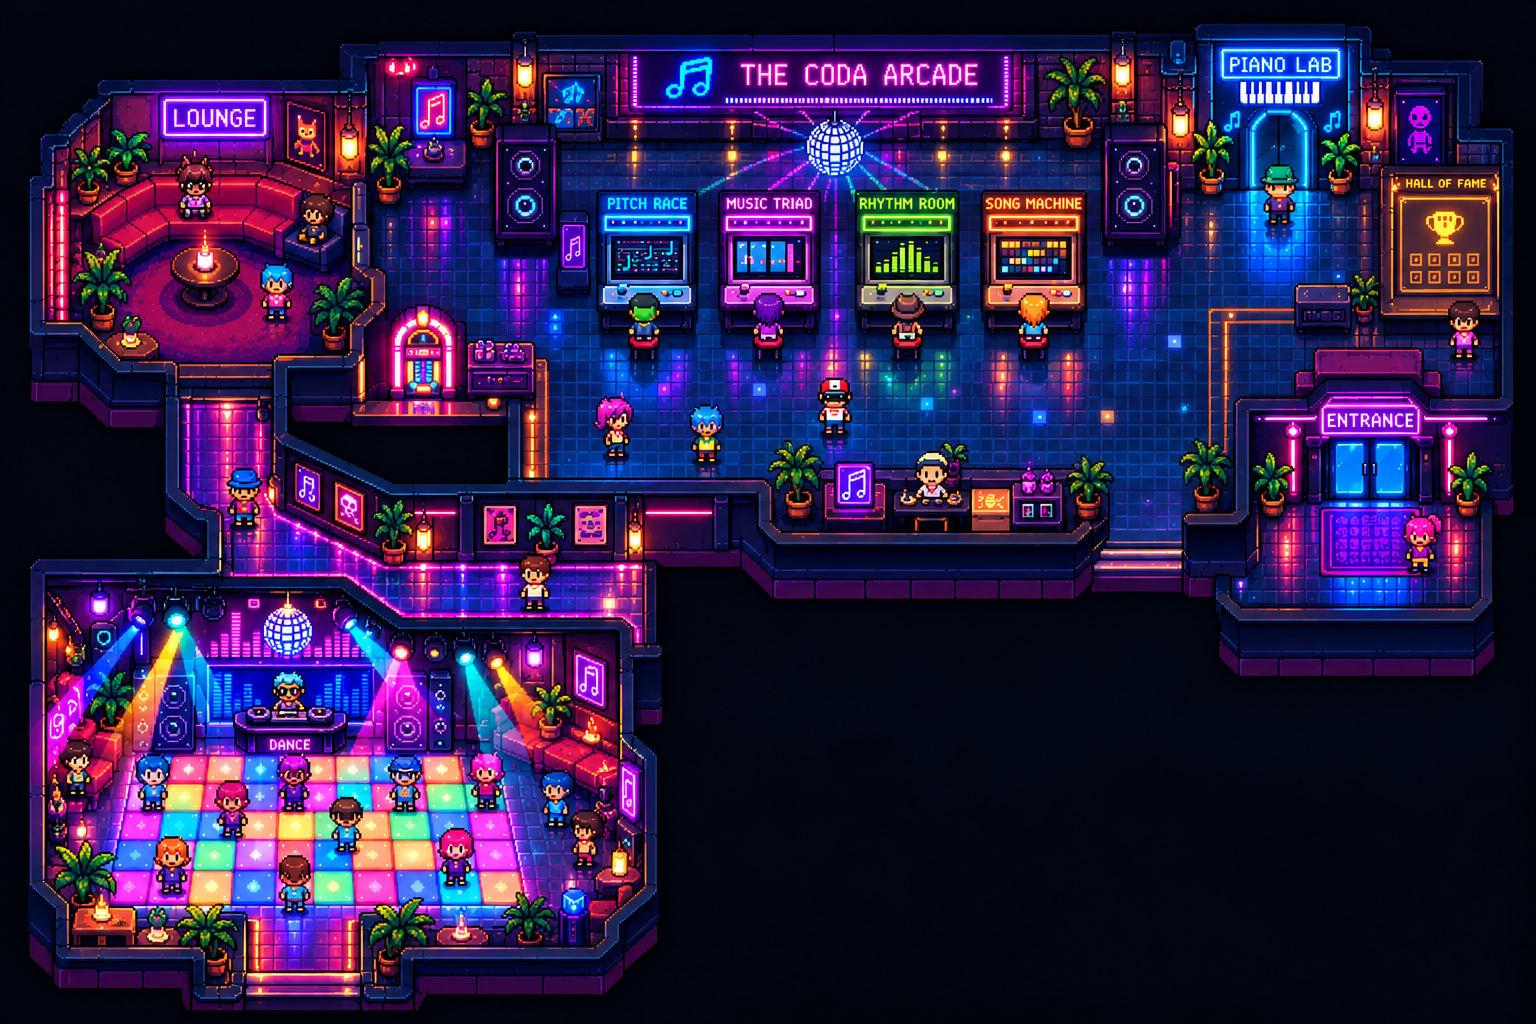
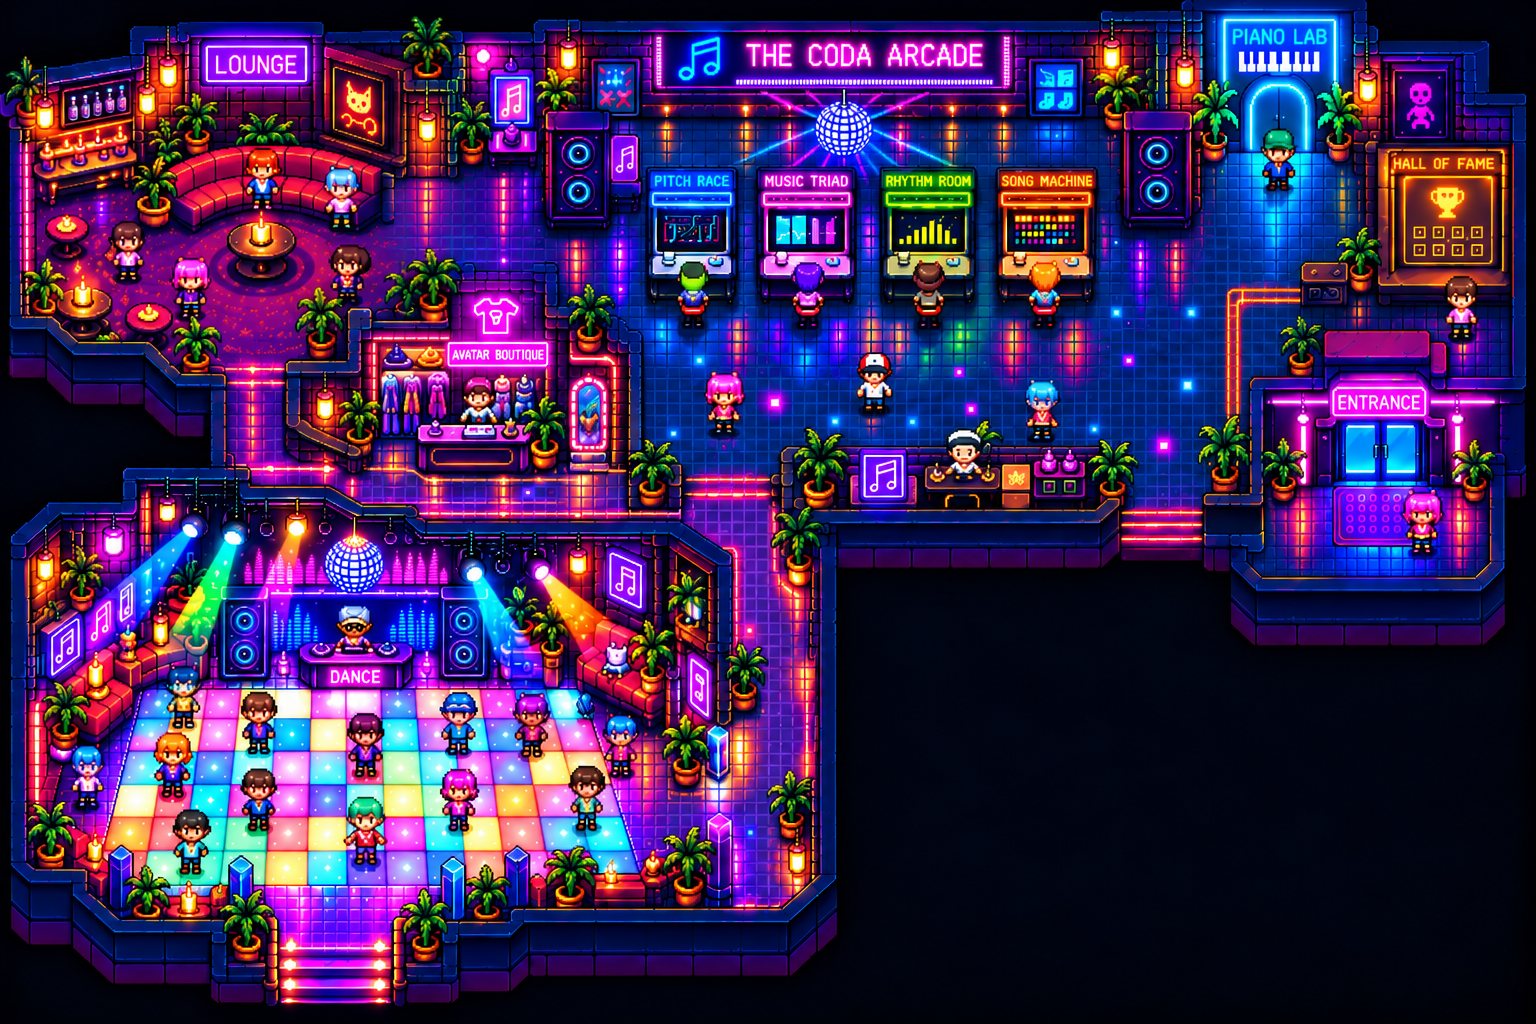
Add files via upload

diff --git a/world-preview.html b/world-preview.html
@@ -3,22 +3,40 @@
 #gameoverlay{position:fixed;inset:0;z-index:100;background:#121327;display:flex;flex-direction:column}#gameoverlay[hidden]{display:none}.gamebar{display:flex;align-items:center;justify-content:space-between;gap:12px;padding:12px 16px;background:#231a3c;border-bottom:2px solid #b583dc}.gamebar strong{color:#f0d7ff}#gameiframe{border:0;width:100%;flex:1;min-height:0;background:#111628}body.game-open{overflow:hidden}@media(max-width:650px){.gamebar{gap:6px}.gamebar strong{font-size:12px}.gamebar a{font-size:11px}}
 #panel{position:fixed;z-index:90;top:50%;left:50%;transform:translate(-50%,-50%);width:min(570px,94vw);max-height:84dvh;overflow:auto;padding:20px;background:#231c3b;border:2px solid #c69be9;box-shadow:0 0 0 100vmax #05030ab8,0 14px 55px #000c;border-radius:12px}#panel[hidden]{display:none}.panelHead{display:flex;justify-content:space-between;align-items:center;margin-bottom:14px}.panelRow{display:flex;align-items:center;justify-content:space-between;gap:12px;margin:10px 0;padding:10px;border:1px solid #66517f;border-radius:7px}.panelRow small{display:block;opacity:.75}.formRow{display:grid;gap:5px;margin:10px 0}.formRow select,.formRow input{background:#17142c;color:#fff;border:1px solid #a08dbd;padding:9px;border-radius:5px;width:100%}.panelActions{display:flex;gap:8px;flex-wrap:wrap;margin-top:14px}.muted{color:#c1b4d7;font-size:13px}.panelMsg{min-height:22px;color:#9fe9dc}body:has(#panel:not([hidden])) #view{filter:brightness(.65)}
 #pianoroom{position:fixed;inset:0;z-index:95;background:radial-gradient(ellipse at 50% 20%,#344962,#11172b 75%);display:flex;flex-direction:column;align-items:center;justify-content:center;gap:18px;color:#f5edff}#pianoroom[hidden]{display:none}#pianoroom .stage{border:9px solid #69567e;background:repeating-linear-gradient(90deg,#243349 0 32px,#28374d 32px 64px);width:min(650px,88vw);padding:30px;text-align:center;box-shadow:0 0 70px #b08ed255}#pianoroom .keys{display:flex;justify-content:center;margin:20px auto 0}#pianoroom .keys i{height:85px;width:27px;background:#eee9f3;border:2px solid #35324b;box-shadow:inset 0 -8px #aaa8bc}#pianoroom .keys i:nth-child(3n+2){background:#22223b;height:55px;width:18px;margin:0 -8px;z-index:1}#pianoroom h2{color:#9feaf2;letter-spacing:3px}#pianoroom button{font-size:16px}
-</style><header><b>♫ CODA ARCADE · CONNECTED WORLD / PHASE 5.8 · NEON NIGHTCLUB WORLD</b><span><a href="index.html">← Current arcade</a> &nbsp; <button id="accountBtn">◉ Guest</button> <button id="jukeboxBtn">♫ Jukebox</button> <button id="fs">⛶ Fullscreen</button></span></header><canvas id="view" width="1536" height="1024" tabindex="0"></canvas><footer><span>WASD / arrows · Walk &nbsp; E · Interact &nbsp; Q · Emote · Click/tap to walk</span><span id="status">Phase 5.8 · Connected dance corridor · WASD / tap to walk</span></footer><div id="dialog" role="dialog" aria-label="Arcade conversation"><strong id="who"></strong><p id="words"></p><button id="close">Close · E</button></div><section id="gameoverlay" hidden aria-label="Arcade game"><div class="gamebar"><button id="returnworld" type="button">← Return to world</button><strong id="activegame">Arcade game</strong><a id="externalgame" href="#" target="_blank" rel="noopener noreferrer">Open in new tab ↗</a></div><iframe id="gameiframe" title="Arcade game" allow="autoplay; fullscreen" allowfullscreen referrerpolicy="strict-origin-when-cross-origin"></iframe></section><div id="panel" hidden><div class="panelHead"><strong id="panelTitle">Arcade</strong><button id="panelClose">✕ Close</button></div><div id="panelBody"></div></div><script src="account-config.js?v=phase42"></script><div id="pianoroom" hidden><div class="stage"><h2>♫ PIANO LAB ♫</h2><p>A quieter music space away from the arcade floor.</p><div class="keys"><i></i><i></i><i></i><i></i><i></i><i></i><i></i><i></i><i></i><i></i><i></i><i></i><i></i><i></i></div><p style="opacity:.7">Dedicated room preview — instruments and activities coming later.</p></div><button id="closepiano">← Return to Arcade</button></div><script>
-(()=>{'use strict';const c=document.querySelector('#view'),g=c.getContext('2d'),status=document.querySelector('#status'),dialog=document.querySelector('#dialog');let avatar={};try{avatar=JSON.parse(localStorage.getItem('musicArcadeV1')||'{}')}catch{}const W=1536,H=1024,ART_SCALE=1,keys=new Set();let player={x:1340,y:505},cam={x:0,y:0},dest=null,emote=0,near=null,last=0,clock=0;const rooms=[{id:'lounge',name:'LOUNGE',x:60,y:100,w:330,h:270},{id:'dance',name:'DANCE',x:45,y:620,w:580,h:325},{id:'arcade',name:'ARCADE',x:490,y:110,w:735,h:435}];const bridges=[];const doors=[];const games=[{name:'Pitch Race',x:645,y:280,url:'https://cwoodmusic.github.io/Pitch-Race/'},{name:'Music Triad',x:765,y:280,url:'https://cwoodmusic.github.io/musictriad/'},{name:'Rhythm Room',x:910,y:280,url:'https://cwoodmusic.github.io/rhythmroom/'},{name:'Song Machine',x:1040,y:280,url:'song-machine/index.html'}];const lines=['Nice place to hang out!','I could stay here all day.','Did you see that?','This is my favorite spot.','Hey! Good to see you.']; // Replace these placeholder lines with your own dialogue later.
-const looks=[['#e5b48d','#ed8cbe','#171424','spiky'],['#85543b','#8ddde6','#e3c27d','long'],['#f4cba6','#c9a3f1','#402c4b','buns'],['#a56b48','#f4ae77','#1c172d','short'],['#f3c3a1','#b2f37b','#6c3159','bob'],['#704633','#a8b5fc','#eee6df','curly'],['#f0b79d','#ffd48c','#171424','ponytail']];const npc=[{name:'Ziggy',x:1340,y:505,mode:'enter',goal:0,wait:0,look:0},{name:'Nova',x:1340,y:505,mode:'enter',goal:1,wait:1.7,look:1},{name:'Byte',x:1340,y:505,mode:'enter',goal:2,wait:3.4,look:2},{name:'Mochi',x:1340,y:505,mode:'enter',goal:3,wait:5,look:3},{name:'Riff',x:1340,y:505,mode:'enter',goal:0,wait:7,look:4},{name:'Fizz',x:1340,y:505,mode:'enter',goal:1,wait:9,look:5},{name:'Dot',x:1340,y:505,mode:'enter',goal:2,wait:11,look:6}];const sofas=[{x:110,y:175,w:110,h:45},{x:230,y:175,w:110,h:45}];const seats=[{x:165,y:235},{x:275,y:235},{x:155,y:310},{x:290,y:310}];const spot=(p)=>p.mode==='cabinet'?{x:games[p.goal%4].x,y:355}:p.mode==='lounge'?seats[p.goal%4]:p.mode==='dance'?{x:160+(p.goal%4)*110,y:780+(p.goal%2)*65}:p.mode==='leave'?{x:1340,y:505}:{x:1340,y:505};const r=(x,y,w,h,color)=>{g.fillStyle=color;g.fillRect(Math.round(x),Math.round(y),w,h)};const t=(s,x,y,size=18,color='#e7e2ff')=>{g.fillStyle=color;g.font=`bold ${size}px monospace`;g.textAlign='center';g.fillText(s,x,y)};function sprite(x,y,look,walk=false,dance=false,scale=1){const [skin,shirt,hair,style]=look;g.save();g.translate(Math.round(x),Math.round(y));g.scale(scale,scale);const bob=dance?Math.sin(clock*8)*5:walk?Math.sin(clock*12)*2:0;r(-10,-38+bob,20,17,hair);if(style==='buns'){r(-15,-39+bob,6,7,hair);r(9,-39+bob,6,7,hair)}if(style==='long')r(-13,-30+bob,26,20,hair);r(-9,-32+bob,18,16,skin);r(-12,-16+bob,24,20,shirt);r(-16,-12+bob,4,13,skin);r(12,-12+bob,4,13,skin);r(-9,4+bob,7,11,'#695d99');r(2,4+bob,7,11,'#695d99');r(-10,14+bob,9,4,'#f8d56b');r(1,14+bob,9,4,'#f8d56b');r(-6,-24+bob,3,3,'#222033');r(4,-24+bob,3,3,'#222033');if(dance){const beat=Math.floor(clock*4+look[0].length)%4,up=beat%2===0;r(-18,-(up?29:13)+bob,5,up?16:11,skin);r(13,-(up?13:29)+bob,5,up?11:16,skin);r(-10+(up?-5:3),14+bob,9,5,'#f8d56b');r(1+(up?4:-4),14+bob,9,5,'#f8d56b')}g.restore()};function inside(x,y){
- // Walkable room masks, including a continuous accessible L-shaped dance corridor.
- const rects=[[510,140,1200,515],[1210,135,1450,565],[100,110,385,365],[360,175,550,435],
- [120,385,285,615],[175,520,635,640],[45,615,625,965],[1140,360,1470,610]];
+</style><header><b>♫ CODA ARCADE · CONNECTED WORLD / PHASE 5.9 · CONNECTED NEON ARCADE</b><span><a href="index.html">← Current arcade</a> &nbsp; <button id="accountBtn">◉ Guest</button> <button id="jukeboxBtn">♫ Jukebox</button> <button id="fs">⛶ Fullscreen</button></span></header><canvas id="view" width="1536" height="1024" tabindex="0"></canvas><footer><span>WASD / arrows · Walk &nbsp; E · Interact &nbsp; Q · Emote · Click/tap to walk</span><span id="status">Phase 5.9 · Connected rooms · WASD / tap to walk</span></footer><div id="dialog" role="dialog" aria-label="Arcade conversation"><strong id="who"></strong><p id="words"></p><button id="close">Close · E</button></div><section id="gameoverlay" hidden aria-label="Arcade game"><div class="gamebar"><button id="returnworld" type="button">← Return to world</button><strong id="activegame">Arcade game</strong><a id="externalgame" href="#" target="_blank" rel="noopener noreferrer">Open in new tab ↗</a></div><iframe id="gameiframe" title="Arcade game" allow="autoplay; fullscreen" allowfullscreen referrerpolicy="strict-origin-when-cross-origin"></iframe></section><div id="panel" hidden><div class="panelHead"><strong id="panelTitle">Arcade</strong><button id="panelClose">✕ Close</button></div><div id="panelBody"></div></div><script src="account-config.js?v=phase42"></script><div id="pianoroom" hidden><div class="stage"><h2>♫ PIANO LAB ♫</h2><p>A quieter music space away from the arcade floor.</p><div class="keys"><i></i><i></i><i></i><i></i><i></i><i></i><i></i><i></i><i></i><i></i><i></i><i></i><i></i><i></i></div><p style="opacity:.7">Dedicated room preview — instruments and activities coming later.</p></div><button id="closepiano">← Return to Arcade</button></div><script>
+(()=>{'use strict';const c=document.querySelector('#view'),g=c.getContext('2d'),status=document.querySelector('#status'),dialog=document.querySelector('#dialog');let avatar={};try{avatar=JSON.parse(localStorage.getItem('musicArcadeV1')||'{}')}catch{}const W=1536,H=1024,ART_SCALE=1,keys=new Set();let player={x:1390,y:480},cam={x:0,y:0},dest=null,emote=0,near=null,last=0,clock=0;const rooms=[{id:'lounge',name:'LOUNGE',x:60,y:100,w:330,h:270},{id:'dance',name:'DANCE',x:45,y:620,w:580,h:325},{id:'arcade',name:'ARCADE',x:490,y:110,w:735,h:435}];const bridges=[];const doors=[];const games=[{name:'Pitch Race',x:693,y:246,url:'https://cwoodmusic.github.io/Pitch-Race/'},{name:'Music Triad',x:808,y:246,url:'https://cwoodmusic.github.io/musictriad/'},{name:'Rhythm Room',x:930,y:246,url:'https://cwoodmusic.github.io/rhythmroom/'},{name:'Song Machine',x:1050,y:246,url:'song-machine/index.html'}];const lines=['Nice place to hang out!','I could stay here all day.','Did you see that?','This is my favorite spot.','Hey! Good to see you.']; // Replace these placeholder lines with your own dialogue later.
+const looks=[['#e5b48d','#ed8cbe','#171424','spiky'],['#85543b','#8ddde6','#e3c27d','long'],['#f4cba6','#c9a3f1','#402c4b','buns'],['#a56b48','#f4ae77','#1c172d','short'],['#f3c3a1','#b2f37b','#6c3159','bob'],['#704633','#a8b5fc','#eee6df','curly'],['#f0b79d','#ffd48c','#171424','ponytail']];const npc=[{name:'Ziggy',x:1390,y:480,mode:'enter',goal:0,wait:0,look:0},{name:'Nova',x:1390,y:480,mode:'enter',goal:1,wait:1.7,look:1},{name:'Byte',x:1390,y:480,mode:'enter',goal:2,wait:3.4,look:2},{name:'Mochi',x:1390,y:480,mode:'enter',goal:3,wait:5,look:3},{name:'Riff',x:1390,y:480,mode:'enter',goal:0,wait:7,look:4},{name:'Fizz',x:1390,y:480,mode:'enter',goal:1,wait:9,look:5},{name:'Dot',x:1390,y:480,mode:'enter',goal:2,wait:11,look:6}];const sofas=[{x:105,y:135,w:110,h:45},{x:240,y:135,w:110,h:45}];const seats=[{x:170,y:245},{x:300,y:245},{x:160,y:320},{x:340,y:320}];const spot=(p)=>p.mode==='cabinet'?{x:games[p.goal%4].x,y:355}:p.mode==='lounge'?seats[p.goal%4]:p.mode==='dance'?{x:175+(p.goal%4)*120,y:750+(p.goal%2)*70}:p.mode==='leave'?{x:1390,y:480}:{x:1390,y:480};const r=(x,y,w,h,color)=>{g.fillStyle=color;g.fillRect(Math.round(x),Math.round(y),w,h)};const t=(s,x,y,size=18,color='#e7e2ff')=>{g.fillStyle=color;g.font=`bold ${size}px monospace`;g.textAlign='center';g.fillText(s,x,y)};function sprite(x,y,look,walk=false,dance=false,scale=1){const [skin,shirt,hair,style]=look;g.save();g.translate(Math.round(x),Math.round(y));g.scale(scale,scale);const bob=dance?Math.sin(clock*8)*5:walk?Math.sin(clock*12)*2:0;r(-10,-38+bob,20,17,hair);if(style==='buns'){r(-15,-39+bob,6,7,hair);r(9,-39+bob,6,7,hair)}if(style==='long')r(-13,-30+bob,26,20,hair);r(-9,-32+bob,18,16,skin);r(-12,-16+bob,24,20,shirt);r(-16,-12+bob,4,13,skin);r(12,-12+bob,4,13,skin);r(-9,4+bob,7,11,'#695d99');r(2,4+bob,7,11,'#695d99');r(-10,14+bob,9,4,'#f8d56b');r(1,14+bob,9,4,'#f8d56b');r(-6,-24+bob,3,3,'#222033');r(4,-24+bob,3,3,'#222033');if(dance){const beat=Math.floor(clock*4+look[0].length)%4,up=beat%2===0;r(-18,-(up?29:13)+bob,5,up?16:11,skin);r(13,-(up?13:29)+bob,5,up?11:16,skin);r(-10+(up?-5:3),14+bob,9,5,'#f8d56b');r(1+(up?4:-4),14+bob,9,5,'#f8d56b')}g.restore()};function inside(x,y){
+ const rects=[
+ [580,120,1215,475], // arcade
+ [1170,120,1490,565], // entrance, piano and hall of fame
+ [405,155,650,330], // open upper lounge doorway
+ [30,120,450,370], // lounge
+ [235,350,680,505], // boutique walkway
+ [620,430,825,575], // arcade to corridor
+ [700,480,825,920], // east corridor
+ [635,690,800,845], // wide unobstructed dance-room side entrance
+ [40,515,710,935] // dance club
+ ];
  return rects.some(([x1,y1,x2,y2])=>x>=x1&&x<=x2&&y>=y1&&y<=y2);
-}// NPCs navigate through room entrances using waypoints, never teleport through walls.
+}
+// NPCs navigate through room entrances using waypoints, never teleport through walls.
 function makeRoute(p,aim){
- // Dance visitors travel through the actual L-shaped corridor, never across a wall.
- if(p.mode==='dance')return [{x:575,y:440},{x:465,y:440},{x:465,y:555},{x:245,y:555},{x:245,y:665},aim];
- if(p.mode==='lounge')return [{x:550,y:380},{x:450,y:360},aim];
- if(p.mode==='cabinet'&&p.x<500)return [{x:245,y:555},{x:465,y:555},{x:465,y:440},{x:575,y:440},aim];
- if(p.mode==='leave'&&p.x<650)return [{x:245,y:665},{x:245,y:555},{x:465,y:555},{x:465,y:440},{x:575,y:440},{x:1180,y:440},aim];
+ const start={x:p.x,y:p.y},dance=start.x<710&&start.y>515,lounge=start.x<450&&start.y<390;
+ if(p.mode==='dance'){
+   if(dance)return [aim];
+   if(lounge)return [{x:470,y:255},{x:610,y:340},{x:705,y:460},{x:755,y:530},{x:755,y:740},{x:660,y:740},aim];
+   return [{x:1080,y:395},{x:800,y:395},{x:755,y:530},{x:755,y:740},{x:660,y:740},aim];
+ }
+ if(p.mode==='lounge'){
+   if(lounge)return [aim];
+   if(dance)return [{x:660,y:740},{x:755,y:740},{x:755,y:530},{x:705,y:460},{x:610,y:340},{x:470,y:255},aim];
+   return [{x:800,y:395},{x:610,y:340},{x:470,y:255},aim];
+ }
+ if(dance)return [{x:660,y:740},{x:755,y:740},{x:755,y:530},{x:800,y:395},aim];
+ if(lounge)return [{x:470,y:255},{x:610,y:340},{x:800,y:395},aim];
  return [aim];
-}function go(p,dt){const aim=spot(p);const targetKey=p.mode+':'+p.goal;
+}
+function go(p,dt){const aim=spot(p);const targetKey=p.mode+':'+p.goal;
  if(p.routeKey!==targetKey){p.routeKey=targetKey;p.route=makeRoute(p,aim)}
  if(!p.route||!p.route.length)return false;
  let target=p.route[0],dx=target.x-p.x,dy=target.y-p.y,dist=Math.hypot(dx,dy);
@@ -29,7 +47,7 @@ function makeRoute(p,aim){
  p.route=makeRoute(p,aim);return true;
 }
 function update(dt){clock+=dt;if(dialog.style.display==='block'||!document.querySelector('#panel').hidden||!document.querySelector('#pianoroom').hidden)return;let dx=(keys.has('d')||keys.has('arrowright')?1:0)-(keys.has('a')||keys.has('arrowleft')?1:0),dy=(keys.has('s')||keys.has('arrowdown')?1:0)-(keys.has('w')||keys.has('arrowup')?1:0);if(dx||dy)dest=null;if(dest){dx=dest.x-player.x;dy=dest.y-player.y;if(Math.hypot(dx,dy)<9){dest=null;dx=dy=0}}const len=Math.hypot(dx,dy);if(len){const nx=player.x+dx/len*230*dt,ny=player.y+dy/len*230*dt;if(inside(nx,player.y))player.x=nx;if(inside(player.x,ny))player.y=ny}for(const p of npc){
-  if(p.hidden){p.wait-=dt;if(p.wait<=0){p.hidden=false;p.x=1340;p.y=505;p.mode='enter';p.routeKey='';p.arrived=false;p.wait=0.5;}continue;}
+  if(p.hidden){p.wait-=dt;if(p.wait<=0){p.hidden=false;p.x=1390;p.y=480;p.mode='enter';p.routeKey='';p.arrived=false;p.wait=0.5;}continue;}
   // Arrival and dwell are separate: NPCs must reach the dance floor before dancing.
   if(p.wait>0){p.wait-=dt;continue;}
   if(p.arrived){
@@ -46,7 +64,7 @@ function update(dt){clock+=dt;if(dialog.style.display==='block'||!document.query
     p.arrived=true;
     p.wait=p.mode==='cabinet'?7+(p.look%3)*2:p.mode==='lounge'?9+(p.look%3)*2:12+(p.look%4)*2;
   }
-}near=null;let d=Infinity;for(const p of [...games.map((q,i)=>({...q,type:'game',index:i})),...npc.filter(q=>!q.hidden).map(q=>({...q,type:'npc'})),{name:'Pip · Avatar Boutique',x:425,y:350,type:'shop'},{name:'Jukebox',x:425,y:350,type:'jukebox'},{name:'Piano Lab',x:1270,y:185,type:'piano'}]){const dd=Math.hypot(p.x-player.x,p.y-player.y);if(dd<85&&dd<d){near=p;d=dd}}status.textContent=near?'E · '+(near.type==='game'?'Play ':near.type==='shop'?'Talk to ':'Chat with ')+near.name:'Explore · E to interact'}const gameoverlay=document.querySelector('#gameoverlay'),gameiframe=document.querySelector('#gameiframe');let gameOpen=false;
+}near=null;let d=Infinity;for(const p of [...games.map((q,i)=>({...q,type:'game',index:i})),...npc.filter(q=>!q.hidden).map(q=>({...q,type:'npc'})),{name:'Pip · Avatar Boutique',x:515,y:403,type:'shop'},{name:'Jukebox',x:520,y:345,type:'jukebox'},{name:'Piano Lab',x:1285,y:180,type:'piano'}]){const dd=Math.hypot(p.x-player.x,p.y-player.y);if(dd<85&&dd<d){near=p;d=dd}}status.textContent=near?'E · '+(near.type==='game'?'Play ':near.type==='shop'?'Talk to ':'Chat with ')+near.name:'Explore · E to interact'}const gameoverlay=document.querySelector('#gameoverlay'),gameiframe=document.querySelector('#gameiframe');let gameOpen=false;
 
 function openPiano(){keys.clear();dest=null;document.querySelector('#pianoroom').hidden=false;}
 function closePiano(){document.querySelector('#pianoroom').hidden=true;keys.clear();c.focus();}
@@ -123,6 +141,29 @@ function draw(){
  g.setTransform(1,0,0,1,0,0);g.fillStyle='#080a16';g.fillRect(0,0,c.width,c.height);
  // No stretch: native 1536x1024 image at 1:1 aspect ratio.
  if(worldArt.complete&&worldArt.naturalWidth)g.drawImage(worldArt,0,0,W,H);
+ // Dance corridor: cut a wide illuminated side entrance through the right-side wall.
+ // Use native-size tiles and neon threshold rather than another dead-end portal.
+ for(let yy=708;yy<806;yy+=16)for(let xx=685;xx<773;xx+=16){
+   const odd=(Math.floor(xx/16)+Math.floor(yy/16))%2;
+   r(xx,yy,16,16,odd?'#172d53':'#23365f');
+   r(xx,yy,16,1,'#405c84');r(xx,yy,1,16,'#314d76');
+ }
+ // Door jambs, neon edge, and arrows point directly into the dance room.
+ r(682,700,5,108,'#d55dff');r(684,700,2,108,'#6ce9ff');
+ r(766,700,5,108,'#d55dff');r(766,700,2,108,'#6ce9ff');
+ r(690,702,74,4,'#ffa5f3');r(690,802,74,4,'#6ce9ff');
+ g.save();g.globalCompositeOperation='screen';g.globalAlpha=.35;
+ const doorGlow=g.createRadialGradient(725,755,4,725,755,95);
+ doorGlow.addColorStop(0,'#cc8bff');doorGlow.addColorStop(1,'#cc8bff00');
+ g.fillStyle=doorGlow;g.fillRect(630,660,190,190);g.restore();
+ t('◀ DANCE',729,749,14,'#f7b6ff');
+ // Open lounge connection, free of any blocking diagonal wall.
+ for(let yy=182;yy<262;yy+=16)for(let xx=431;xx<500;xx+=16){
+   r(xx,yy,16,16,(Math.floor(xx/16)+Math.floor(yy/16))%2?'#1a2244':'#253357');
+   r(xx,yy,16,1,'#435b80');
+ }
+ r(427,179,72,4,'#d979e7');r(427,260,72,4,'#69d5ed');
+
  cam.x=0;cam.y=0;
  g.save();
  // Live lighting overlays on top of the painted neon floor.
@@ -154,7 +195,8 @@ function draw(){
   sprite(p.x,p.y,looks[p.look],p.wait<=0,dancing,.72);
   if(dancing)t(['♪','♫','★'][p.look%3],p.x+15,p.y-40+Math.sin(clock*3+p.look)*5,16,'#f4b6ea');
  }
- sprite(player.x,player.y,[avatar.skin||'#d49a76',avatar.shirt||'#a7f66f',avatar.hair||'#463145',avatar.hairstyle||'short'],false,emote>clock,.78);
+ g.save();g.globalCompositeOperation='screen';g.globalAlpha=.25;g.fillStyle='#6bdcff';g.beginPath();g.ellipse(player.x,player.y+8,21,7,0,0,Math.PI*2);g.fill();g.restore();
+ sprite(player.x,player.y,[avatar.skin||'#d49a76',avatar.shirt||'#a7f66f',avatar.hair||'#463145',avatar.hairstyle||'short'],false,emote>clock,.95);
  t('▼ YOU',player.x,player.y-46,13,'#eaffac');
  if(near){const px=near.x,py=near.y-62;g.globalAlpha=.86;r(px-63,py-20,126,25,'#18152d');g.globalAlpha=1;t('E · '+(near.type==='game'?'PLAY':near.type==='piano'?'ENTER':'INTERACT'),px,py-3,11,'#c5fbfa')}
  g.restore();
